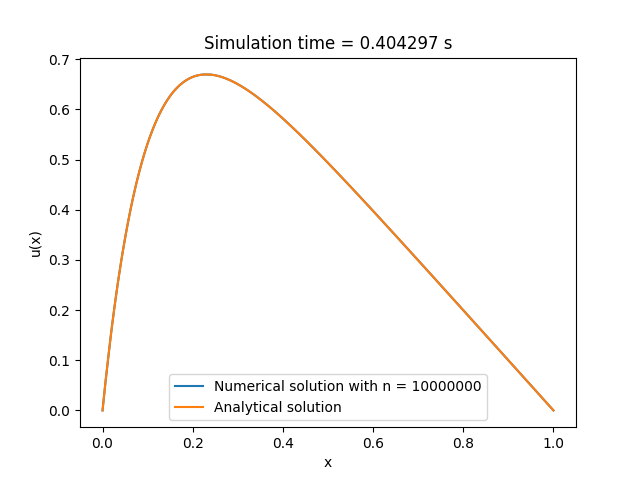
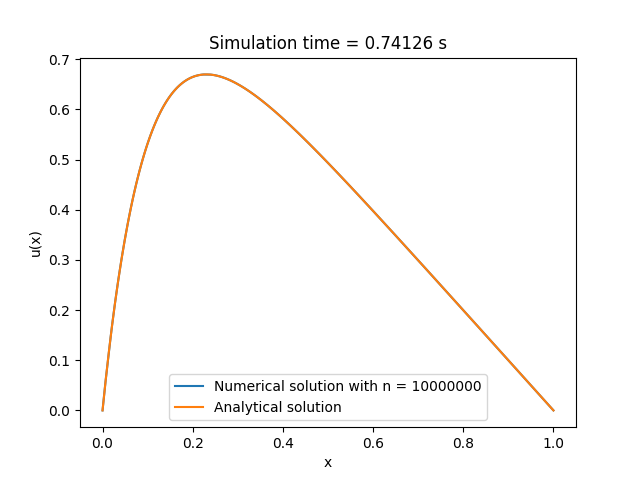
update

Changed region(s): [[0.3125, 0.0625, 0.5312, 0.125], [0.5625, 0.0625, 0.7188, 0.125]]

diff --git a/projects/project1/codes/compute_error.py b/projects/project1/codes/compute_error.py
@@ -1,16 +1,58 @@
 import numpy as np
 import matplotlib.pyplot as plt
+from os import system
 
+
+def error_function(v,u):
+    if u != 0 and v!= 0:
+        return np.log10(abs((v-u)/u))
+    else:
+        return 0
+
+def u(x):
+    """
+    Analytical solution to the differential equation
+    """
+    return 1 - (1-np.exp(-10))*x - np.exp(-10*x)
 
 #Gotta read data from many files simultanously and compute the error for each and write it to a file.
 #This new file will be used to create a table.
+max_error = []
+number_of_gridpoints = [10, 1e2, 1e3, 1e4, 1e5, 1e6, 1e7]
+number_of_gridpoints = [int(i) for i in number_of_gridpoints]
+for n in number_of_gridpoints:
+    filename = "solution_part_b_n_" + str(n) + ".txt"
+    v = []
+    with open(filename, "r") as infile:
+        timeused = float(infile.readline())   #Time used to run the c++ program.
+        lines = infile.readlines()
+        for line in lines:
+            numbers = line.split()
+            for number in numbers:
+                v.append(float(number))
 
-def error_function(v,u):
-    return np.log10(abs((v-u)/u))
+    v = np.array(v)
+    x = np.linspace(0,1, n)
+    U = u(x)                    #Compute the corresponding values of u(x) at the same points as the data of v(x) is obtained.
+    errors = np.zeros(n)        #Empty error array to store computed errors.
+    for i in range(n):
+        errors[i] = error_function(v[i], U[i])
 
-U = u(x)                    #Compute the corresponding values of u(x) at the same points as the data of v(x) is obtained.
-errors = np.zeros(n)        #Empty error array to store computed errors.
-for i in range(n):
-    errors[i] = error_function(v[i], U[i])
+    max_error.append(max(errors))     #Finds the maximum error between v(x) and u(x).
 
-max_error = max(errors)     #Finds the maximum error between v(x) and u(x).
+print(max_error)
+with open("max_errors.txt", "w") as outfile:
+    outfile.write("n" + " " + "max_error" + "\n")
+    for i,e in zip(number_of_gridpoints, max_error):
+        outfile.write(str(i) + " " + str(e) + "\n")
+
+figurename = "max_error.png"
+log_number_of_gridpoints = [np.log10(i) for i in number_of_gridpoints]
+plt.plot(log_number_of_gridpoints, max_error)
+plt.xlabel("log10(n)")
+plt.ylabel("log10(max error)")
+plt.title("Maximum error as a function number of gridpoints")
+plt.savefig(figurename)
+plt.close()
+
+system("mv " + figurename + " ~/Documents/skole/comphys/projects/project1/codes/plots/plots_partb")

diff --git a/projects/project1/codes/main.py b/projects/project1/codes/main.py
@@ -1,7 +1,7 @@
 from os import system
 import sys
 
-number_of_gridpoints = [10, 1e2, 1e3, 1e4, 1e5, 1e6, 1e7]
+number_of_gridpoints = [10, 1e2, 1e3, 1e4, 1e5, 1e6, 1e7, 1e8]
 number_of_gridpoints = [int(i) for i in number_of_gridpoints]
 
 #run program for all n in number_of_gridpoints.
@@ -18,7 +18,11 @@ print("Plots are finished, making congregation of plots...")
 
 system("python3" + " " + "make_plot_subplots.py" + " " + "all_plots.png")
 
-print("congregation of plots are finished, removing .txt files...")
+print("congregation of plots are finished, computing maximum errors and write to file...")
+
+system("python3 compute_error.py")
+
+print("Errors are computed, removing .txt files containing the computed solution...")
 #Remove txt-files to clear up space .
 for n in number_of_gridpoints:
     system("rm" + " " + "solution_part_b_n_" + str(n) + ".txt")
